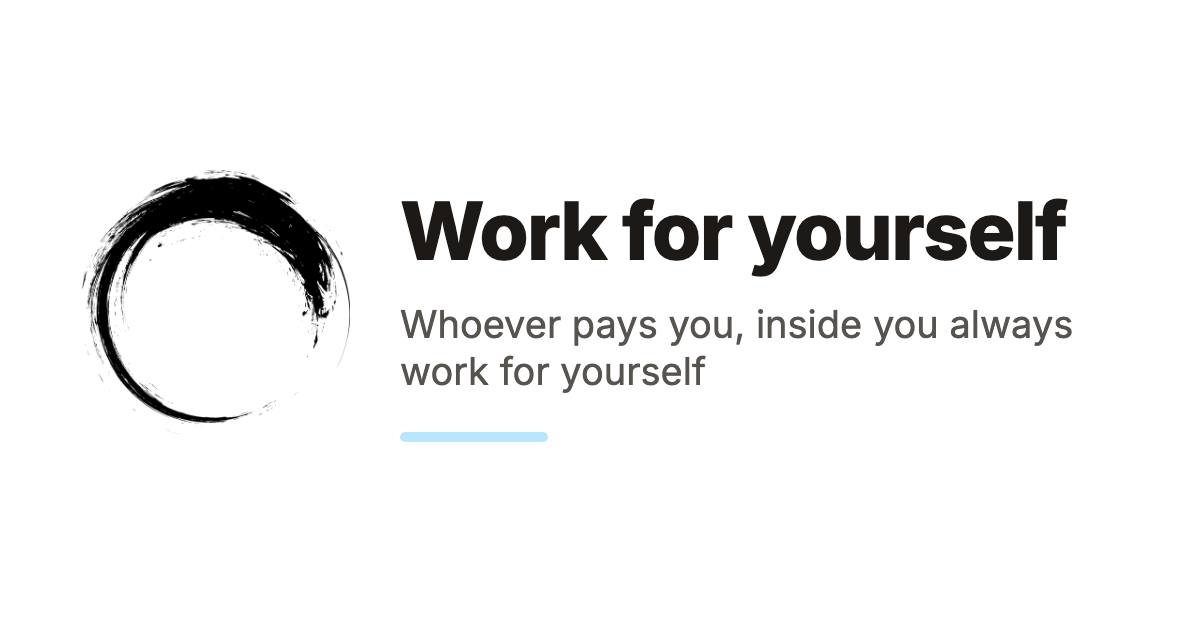
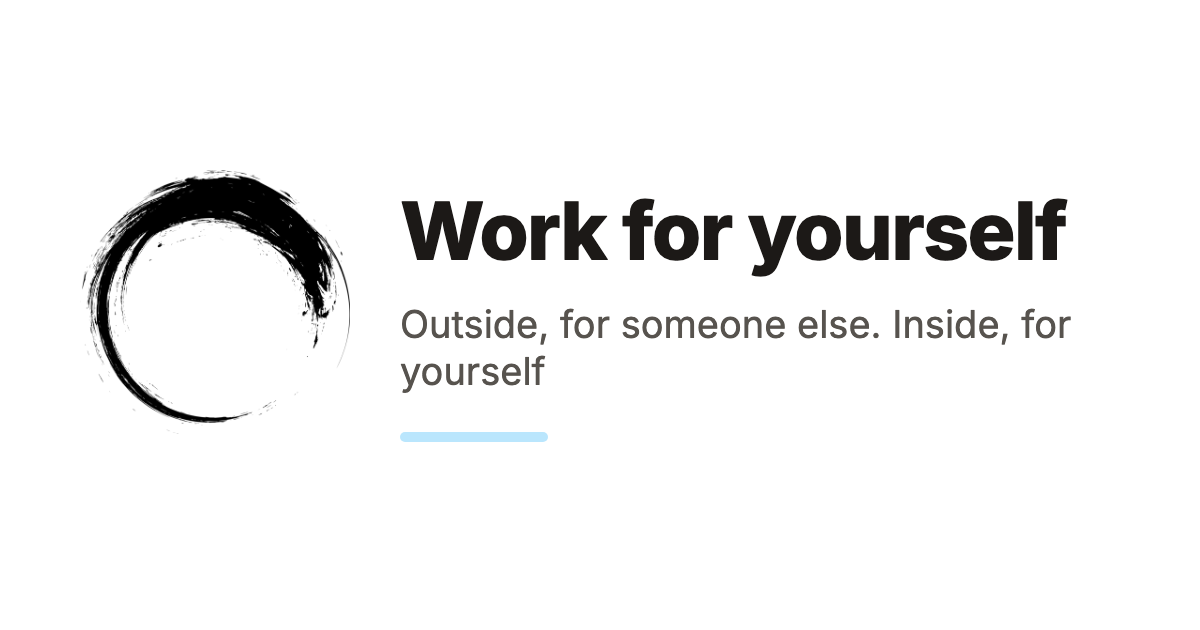
build

Changed region(s): [[0.3392, 0.4825, 0.8942, 0.6333]]

diff --git a/ru/work-for-yourself.html b/ru/work-for-yourself.html
@@ -18,8 +18,8 @@
 <title>Работай на себя | tellothers.com</title>
 <meta property="og:title" content="Работай на себя" />
 <meta property="og:locale" content="ru_RU" />
-<meta name="description" content="Снаружи работаешь на кого-то, внутри — всегда на себя. Не против работы. Против рабства. Цель не заработать, а не работать. Три уровня: Цель — НАД." />
-<meta property="og:description" content="Снаружи работаешь на кого-то, внутри — всегда на себя. Не против работы. Против рабства. Цель не заработать, а не работать. Три уровня: Цель — НАД." />
+<meta name="description" content="Снаружи — на кого-то, внутри — на себя. Не против работы. Против рабства. Цель не заработать, а не работать. Три уровня: Цель — НАД." />
+<meta property="og:description" content="Снаружи — на кого-то, внутри — на себя. Не против работы. Против рабства. Цель не заработать, а не работать. Три уровня: Цель — НАД." />
 <link rel="canonical" href="https://tellothers.com/ru/work-for-yourself" />
 <meta property="og:url" content="https://tellothers.com/ru/work-for-yourself" />
 <meta property="og:site_name" content="tellothers.com" />
@@ -99,7 +99,7 @@
     </h1>
 
       <p class="text-lg sm:text-xl text-stone-500 leading-snug">
-        Снаружи работаешь на кого-то, внутри — всегда на себя
+        Снаружи — на кого-то, внутри — на себя
       </p>
   </header>
 
@@ -152,12 +152,12 @@
   "@type": "Article",
   "name": "Работай на себя",
   "headline": "Работай на себя",
-  "description": "Снаружи работаешь на кого-то, внутри — всегда на себя",
+  "description": "Снаружи — на кого-то, внутри — на себя",
   "url": "https://tellothers.com/ru/work-for-yourself",
   "mainEntityOfPage": "https://tellothers.com/ru/work-for-yourself",
   "image": "https://tellothers.com/images/og/work-for-yourself.ru.png",
   "datePublished": "2026-10-13T09:24:40+07:00",
-  "dateModified": "2026-10-13T09:24:40+07:00",
+  "dateModified": "2026-10-26T15:47:35+07:00",
   "inLanguage": "ru",
   "isPartOf": {
     "@type": "WebSite",

diff --git a/work-for-yourself.html b/work-for-yourself.html
@@ -18,8 +18,8 @@
 <title>Work for yourself | tellothers.com</title>
 <meta property="og:title" content="Work for yourself" />
 <meta property="og:locale" content="en_US" />
-<meta name="description" content="Whoever pays you, inside you always work for yourself. Not against work. Against slavery. The goal isn&#39;t to earn. It&#39;s to not work." />
-<meta property="og:description" content="Whoever pays you, inside you always work for yourself. Not against work. Against slavery. The goal isn&#39;t to earn. It&#39;s to not work." />
+<meta name="description" content="Outside, for someone else. Inside, for yourself. Not against work. Against slavery. The goal isn&#39;t to earn. It&#39;s to not work. Three levels: The goal is ABOVE." />
+<meta property="og:description" content="Outside, for someone else. Inside, for yourself. Not against work. Against slavery. The goal isn&#39;t to earn. It&#39;s to not work. Three levels: The goal is ABOVE." />
 <link rel="canonical" href="https://tellothers.com/work-for-yourself" />
 <meta property="og:url" content="https://tellothers.com/work-for-yourself" />
 <meta property="og:site_name" content="tellothers.com" />
@@ -99,7 +99,7 @@
     </h1>
 
       <p class="text-lg sm:text-xl text-stone-500 leading-snug">
-        Whoever pays you, inside you always work for yourself
+        Outside, for someone else. Inside, for yourself
       </p>
   </header>
 
@@ -152,12 +152,12 @@
   "@type": "Article",
   "name": "Work for yourself",
   "headline": "Work for yourself",
-  "description": "Whoever pays you, inside you always work for yourself",
+  "description": "Outside, for someone else. Inside, for yourself",
   "url": "https://tellothers.com/work-for-yourself",
   "mainEntityOfPage": "https://tellothers.com/work-for-yourself",
   "image": "https://tellothers.com/images/og/work-for-yourself.en.png",
   "datePublished": "2026-10-13T09:24:40+07:00",
-  "dateModified": "2026-10-22T16:16:58+07:00",
+  "dateModified": "2026-10-26T15:47:35+07:00",
   "inLanguage": "en",
   "isPartOf": {
     "@type": "WebSite",

diff --git a/ru/index.html b/ru/index.html
@@ -25,7 +25,7 @@
 <meta property="og:site_name" content="tellothers.com" />
 <meta property="og:image" content="https://tellothers.com/images/og-ru.png" />
 <meta property="og:type" content="article" />
-<meta property="article:published_time" content="2026-10-26T01:46:48-07:00" />
+<meta property="article:published_time" content="2026-10-26T01:47:38-07:00" />
 <meta name="twitter:card" content="summary_large_image" />
 <meta property="twitter:image" content="https://tellothers.com/images/og-ru.png" />
 <meta property="twitter:title" content="Сработало? Скажи другим." />
@@ -171,7 +171,7 @@
 
     <a href="/ru/work-for-yourself" class="group block no-underline rounded-lg hover:bg-white p-4 transition-all duration-700 ease-out hover:shadow-lg hover:shadow-stone-900/5">
   <div class="font-sans font-bold text-stone-800 group-hover:text-stone-950 transition duration-700">Работай на себя</div>
-    <div class="mt-1 text-sm text-stone-600 leading-snug transition duration-700">Снаружи работаешь на кого-то, внутри — всегда на себя</div>
+    <div class="mt-1 text-sm text-stone-600 leading-snug transition duration-700">Снаружи — на кого-то, внутри — на себя</div>
 </a>
 
 

diff --git a/index.html b/index.html
@@ -25,7 +25,7 @@
 <meta property="og:site_name" content="tellothers.com" />
 <meta property="og:image" content="https://tellothers.com/images/og-en.png" />
 <meta property="og:type" content="article" />
-<meta property="article:published_time" content="2026-10-26T01:46:48-07:00" />
+<meta property="article:published_time" content="2026-10-26T01:47:38-07:00" />
 <meta name="twitter:card" content="summary_large_image" />
 <meta property="twitter:image" content="https://tellothers.com/images/og-en.png" />
 <meta property="twitter:title" content="It worked? Tell others." />
@@ -171,7 +171,7 @@
 
     <a href="/work-for-yourself" class="group block no-underline rounded-lg hover:bg-white p-4 transition-all duration-700 ease-out hover:shadow-lg hover:shadow-stone-900/5">
   <div class="font-sans font-bold text-stone-800 group-hover:text-stone-950 transition duration-700">Work for yourself</div>
-    <div class="mt-1 text-sm text-stone-600 leading-snug transition duration-700">Whoever pays you, inside you always work for yourself</div>
+    <div class="mt-1 text-sm text-stone-600 leading-snug transition duration-700">Outside, for someone else. Inside, for yourself</div>
 </a>
 
 

diff --git a/ru/do-what-you-like.html b/ru/do-what-you-like.html
@@ -151,7 +151,7 @@
       <div class="grid sm:grid-cols-2 gap-3 -mx-4">
             <a href="/ru/work-for-yourself" class="group block no-underline rounded-lg hover:bg-white p-4 transition-all duration-700 ease-out hover:shadow-lg hover:shadow-stone-900/5">
   <div class="font-sans font-bold text-stone-800 group-hover:text-stone-950 transition duration-700">Работай на себя</div>
-    <div class="mt-1 text-sm text-stone-600 leading-snug transition duration-700">Снаружи работаешь на кого-то, внутри — всегда на себя</div>
+    <div class="mt-1 text-sm text-stone-600 leading-snug transition duration-700">Снаружи — на кого-то, внутри — на себя</div>
 </a>
 
             <a href="/ru/dont-believe-thoughts" class="group block no-underline rounded-lg hover:bg-white p-4 transition-all duration-700 ease-out hover:shadow-lg hover:shadow-stone-900/5">

diff --git a/ru/your-game.html b/ru/your-game.html
@@ -170,7 +170,7 @@
       <div class="grid sm:grid-cols-2 gap-3 -mx-4">
             <a href="/ru/work-for-yourself" class="group block no-underline rounded-lg hover:bg-white p-4 transition-all duration-700 ease-out hover:shadow-lg hover:shadow-stone-900/5">
   <div class="font-sans font-bold text-stone-800 group-hover:text-stone-950 transition duration-700">Работай на себя</div>
-    <div class="mt-1 text-sm text-stone-600 leading-snug transition duration-700">Снаружи работаешь на кого-то, внутри — всегда на себя</div>
+    <div class="mt-1 text-sm text-stone-600 leading-snug transition duration-700">Снаружи — на кого-то, внутри — на себя</div>
 </a>
 
             <a href="/ru/do-what-you-like" class="group block no-underline rounded-lg hover:bg-white p-4 transition-all duration-700 ease-out hover:shadow-lg hover:shadow-stone-900/5">

diff --git a/ru/how-i-found-freedom.html b/ru/how-i-found-freedom.html
@@ -151,7 +151,7 @@
       <div class="grid sm:grid-cols-2 gap-3 -mx-4">
             <a href="/ru/work-for-yourself" class="group block no-underline rounded-lg hover:bg-white p-4 transition-all duration-700 ease-out hover:shadow-lg hover:shadow-stone-900/5">
   <div class="font-sans font-bold text-stone-800 group-hover:text-stone-950 transition duration-700">Работай на себя</div>
-    <div class="mt-1 text-sm text-stone-600 leading-snug transition duration-700">Снаружи работаешь на кого-то, внутри — всегда на себя</div>
+    <div class="mt-1 text-sm text-stone-600 leading-snug transition duration-700">Снаружи — на кого-то, внутри — на себя</div>
 </a>
 
             <a href="/ru/your-game" class="group block no-underline rounded-lg hover:bg-white p-4 transition-all duration-700 ease-out hover:shadow-lg hover:shadow-stone-900/5">

diff --git a/ru/compound.html b/ru/compound.html
@@ -153,7 +153,7 @@
       <div class="grid sm:grid-cols-2 gap-3 -mx-4">
             <a href="/ru/work-for-yourself" class="group block no-underline rounded-lg hover:bg-white p-4 transition-all duration-700 ease-out hover:shadow-lg hover:shadow-stone-900/5">
   <div class="font-sans font-bold text-stone-800 group-hover:text-stone-950 transition duration-700">Работай на себя</div>
-    <div class="mt-1 text-sm text-stone-600 leading-snug transition duration-700">Снаружи работаешь на кого-то, внутри — всегда на себя</div>
+    <div class="mt-1 text-sm text-stone-600 leading-snug transition duration-700">Снаружи — на кого-то, внутри — на себя</div>
 </a>
 
             <a href="/ru/mine-joy" class="group block no-underline rounded-lg hover:bg-white p-4 transition-all duration-700 ease-out hover:shadow-lg hover:shadow-stone-900/5">

diff --git a/ru/mine-joy.html b/ru/mine-joy.html
@@ -209,7 +209,7 @@
 
             <a href="/ru/work-for-yourself" class="group block no-underline rounded-lg hover:bg-white p-4 transition-all duration-700 ease-out hover:shadow-lg hover:shadow-stone-900/5">
   <div class="font-sans font-bold text-stone-800 group-hover:text-stone-950 transition duration-700">Работай на себя</div>
-    <div class="mt-1 text-sm text-stone-600 leading-snug transition duration-700">Снаружи работаешь на кого-то, внутри — всегда на себя</div>
+    <div class="mt-1 text-sm text-stone-600 leading-snug transition duration-700">Снаружи — на кого-то, внутри — на себя</div>
 </a>
 
             <a href="/ru/locate-control-inside" class="group block no-underline rounded-lg hover:bg-white p-4 transition-all duration-700 ease-out hover:shadow-lg hover:shadow-stone-900/5">

diff --git a/ru/the-hermit-and-six-toes.html b/ru/the-hermit-and-six-toes.html
@@ -170,7 +170,7 @@
 
             <a href="/ru/work-for-yourself" class="group block no-underline rounded-lg hover:bg-white p-4 transition-all duration-700 ease-out hover:shadow-lg hover:shadow-stone-900/5">
   <div class="font-sans font-bold text-stone-800 group-hover:text-stone-950 transition duration-700">Работай на себя</div>
-    <div class="mt-1 text-sm text-stone-600 leading-snug transition duration-700">Снаружи работаешь на кого-то, внутри — всегда на себя</div>
+    <div class="mt-1 text-sm text-stone-600 leading-snug transition duration-700">Снаружи — на кого-то, внутри — на себя</div>
 </a>
 
             <a href="/ru/generation-p" class="group block no-underline rounded-lg hover:bg-white p-4 transition-all duration-700 ease-out hover:shadow-lg hover:shadow-stone-900/5">

diff --git a/ru/love-life.html b/ru/love-life.html
@@ -177,7 +177,7 @@
 
             <a href="/ru/work-for-yourself" class="group block no-underline rounded-lg hover:bg-white p-4 transition-all duration-700 ease-out hover:shadow-lg hover:shadow-stone-900/5">
   <div class="font-sans font-bold text-stone-800 group-hover:text-stone-950 transition duration-700">Работай на себя</div>
-    <div class="mt-1 text-sm text-stone-600 leading-snug transition duration-700">Снаружи работаешь на кого-то, внутри — всегда на себя</div>
+    <div class="mt-1 text-sm text-stone-600 leading-snug transition duration-700">Снаружи — на кого-то, внутри — на себя</div>
 </a>
 
             <a href="/ru/be-grateful" class="group block no-underline rounded-lg hover:bg-white p-4 transition-all duration-700 ease-out hover:shadow-lg hover:shadow-stone-900/5">

diff --git a/ru/money-flow.html b/ru/money-flow.html
@@ -168,7 +168,7 @@
 
             <a href="/ru/work-for-yourself" class="group block no-underline rounded-lg hover:bg-white p-4 transition-all duration-700 ease-out hover:shadow-lg hover:shadow-stone-900/5">
   <div class="font-sans font-bold text-stone-800 group-hover:text-stone-950 transition duration-700">Работай на себя</div>
-    <div class="mt-1 text-sm text-stone-600 leading-snug transition duration-700">Снаружи работаешь на кого-то, внутри — всегда на себя</div>
+    <div class="mt-1 text-sm text-stone-600 leading-snug transition duration-700">Снаружи — на кого-то, внутри — на себя</div>
 </a>
 
             <a href="/ru/your-game" class="group block no-underline rounded-lg hover:bg-white p-4 transition-all duration-700 ease-out hover:shadow-lg hover:shadow-stone-900/5">
